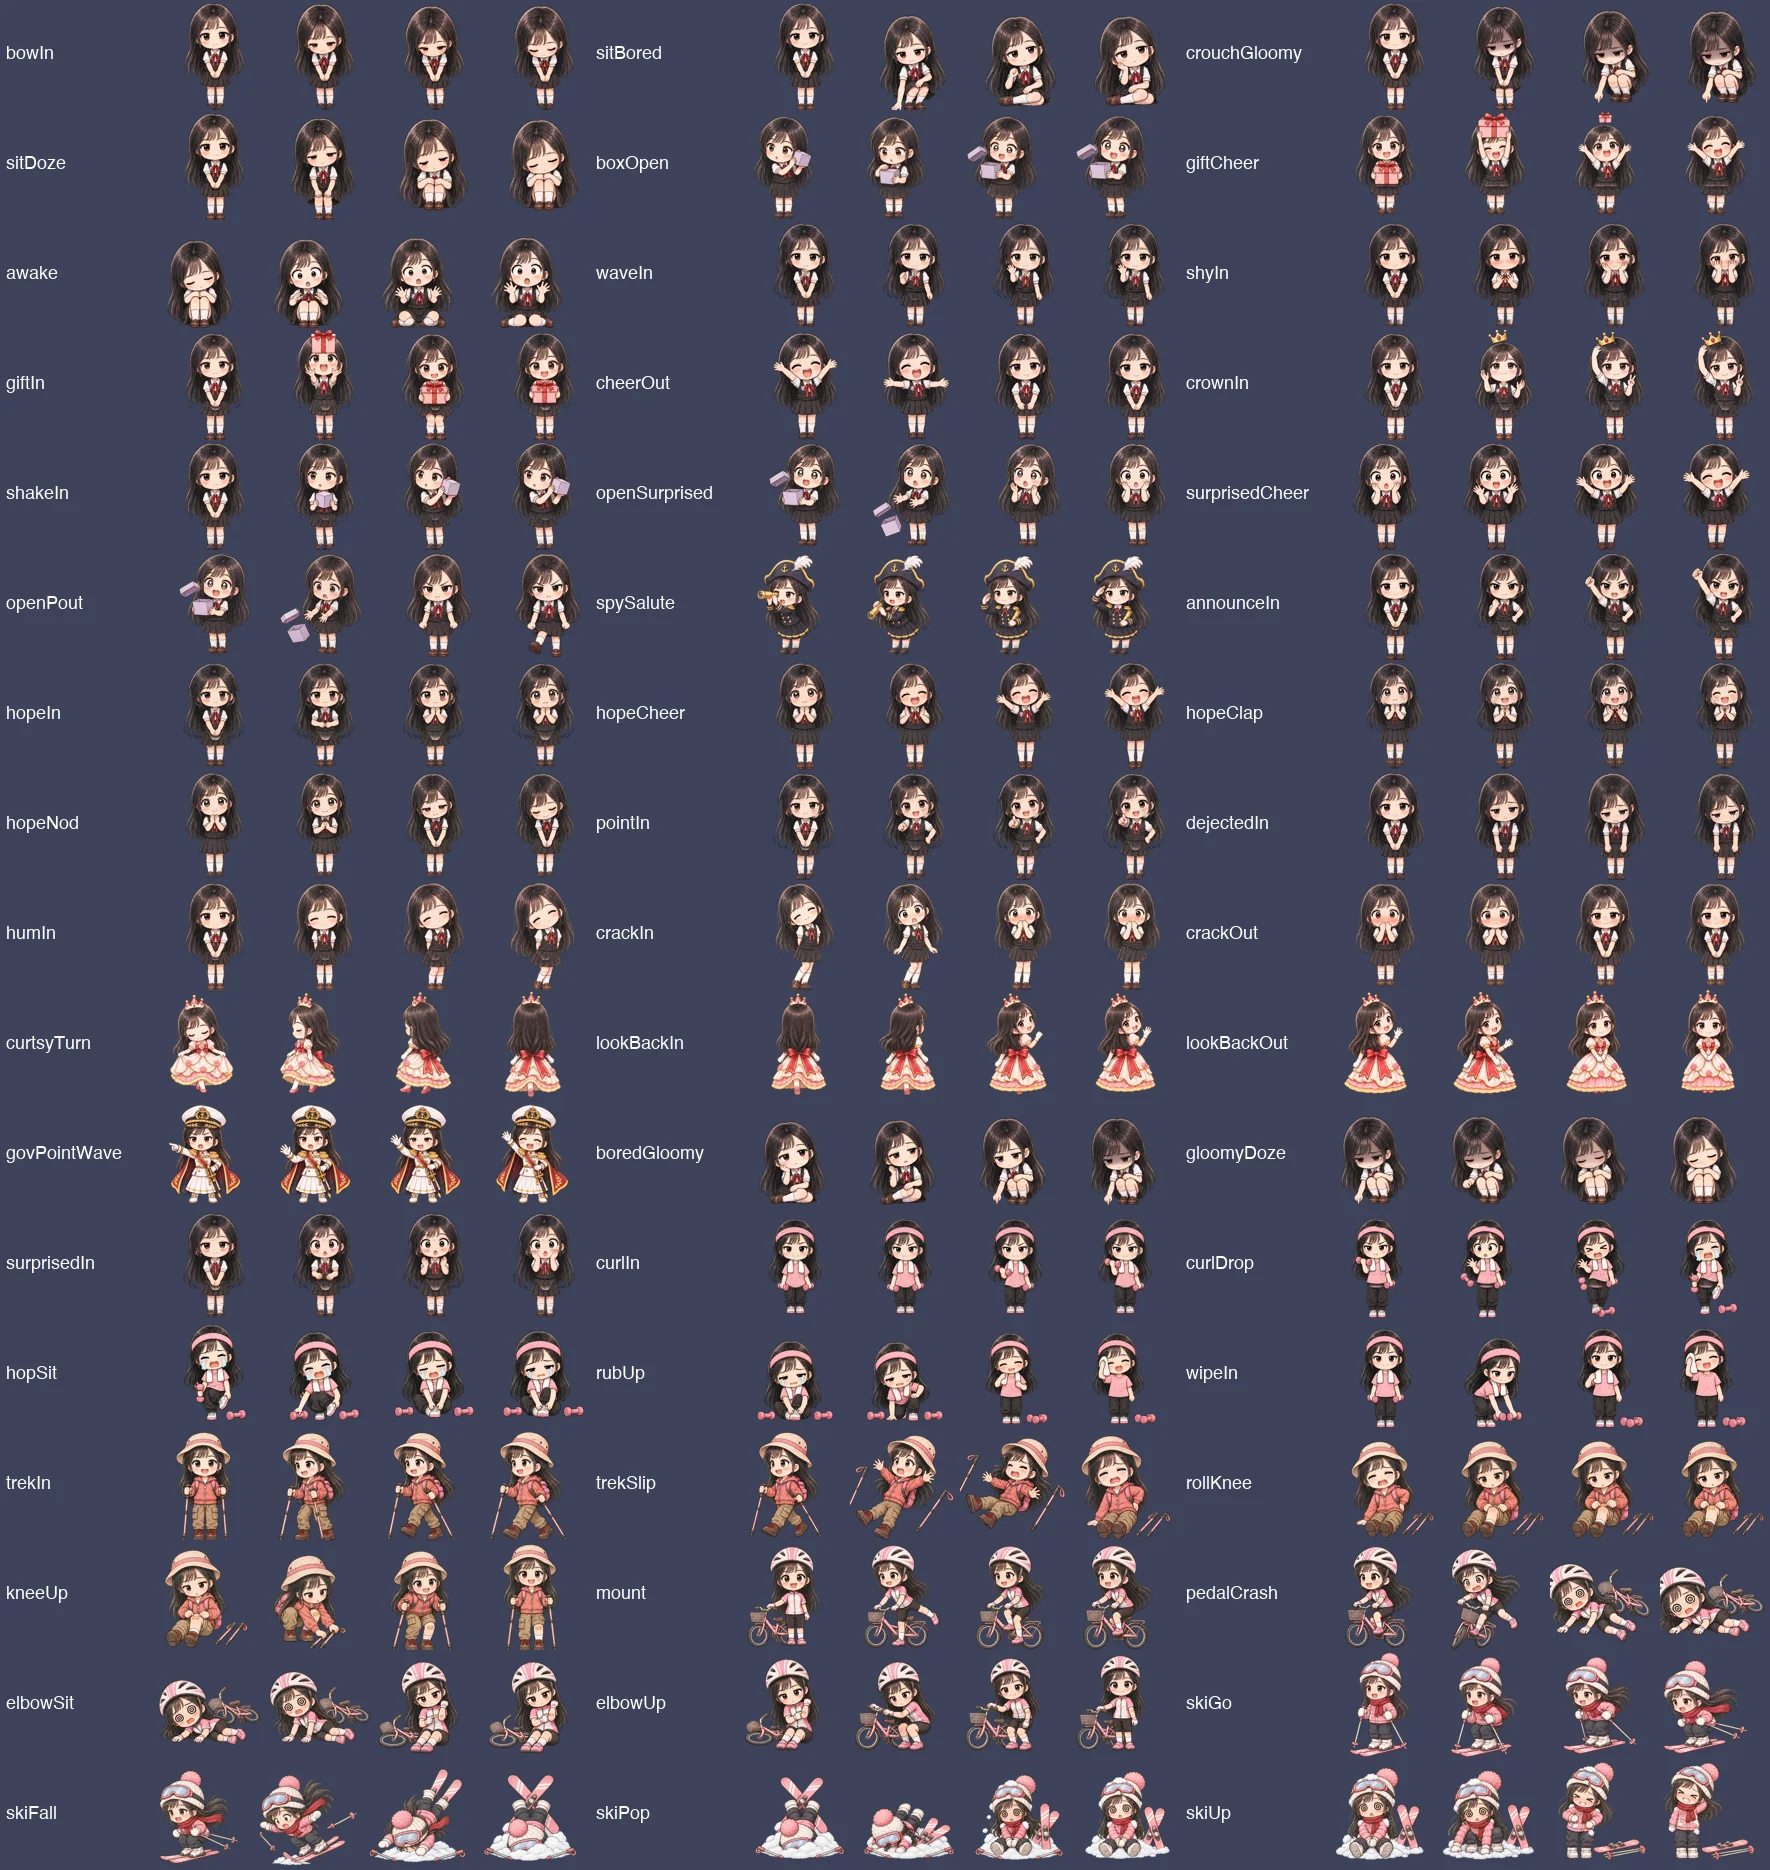
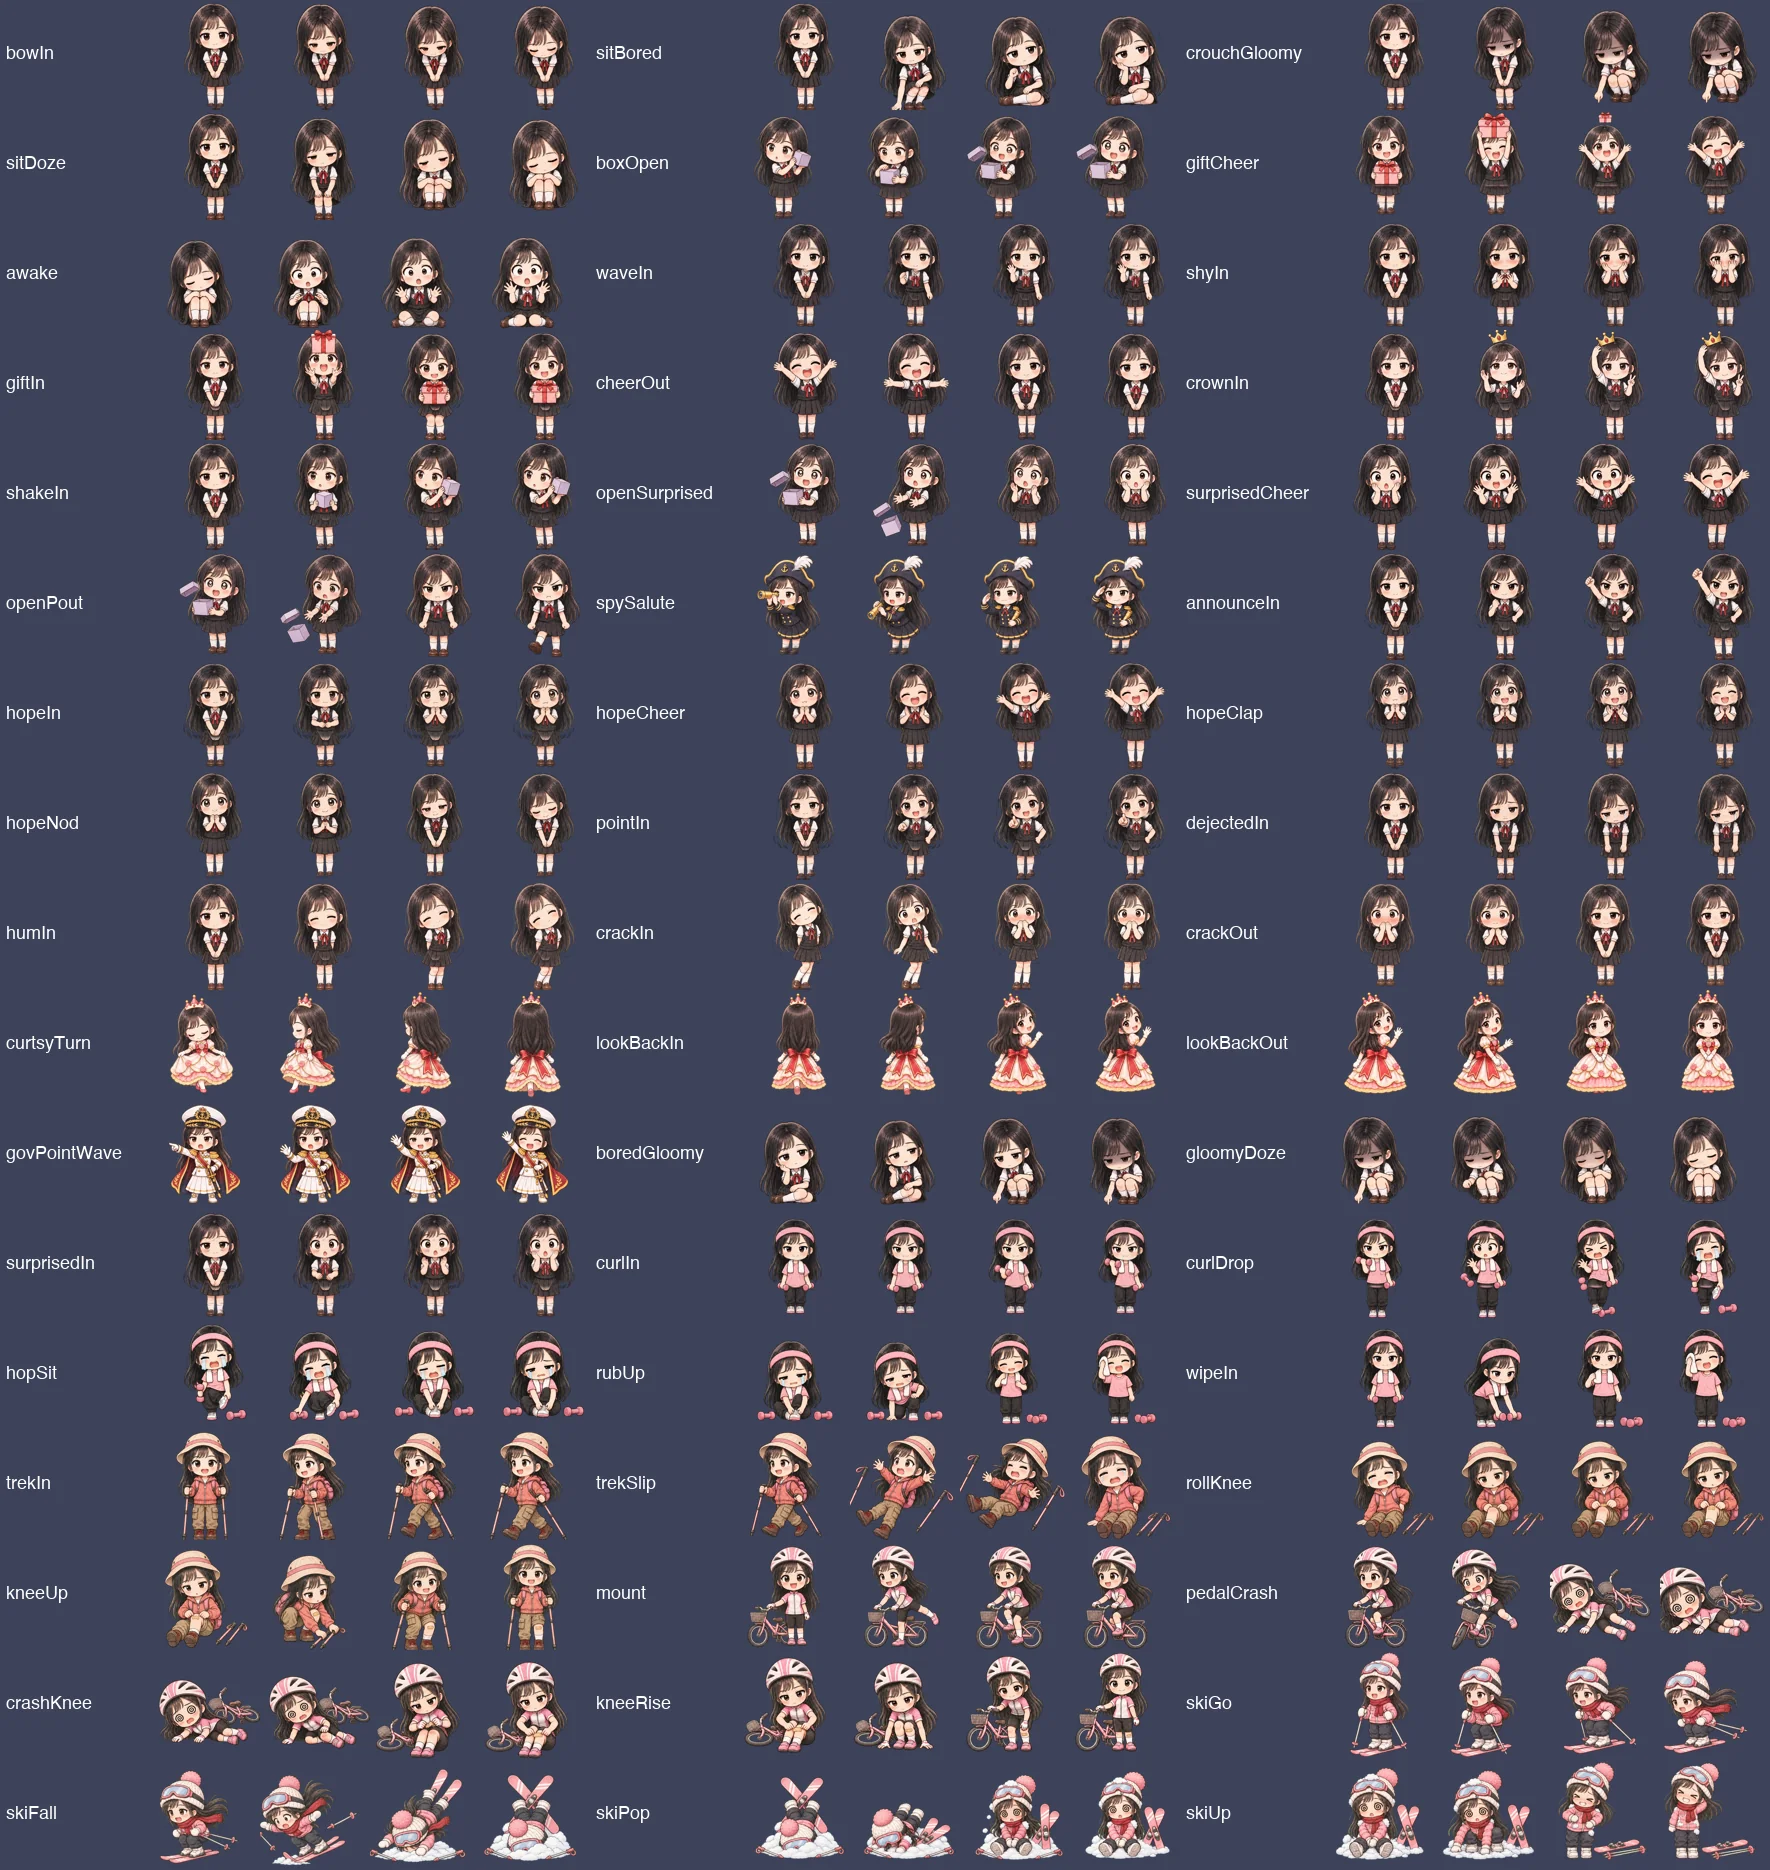
docs: the desktop pet's bike crash scrapes the knee that hits the ground and the plaster goes on that bare knee, standing up with her arms natural (#343)

Changed region(s): [[0.1243, 0.8684, 0.3729, 0.9615], [0.435, 0.8684, 0.5904, 0.9615], [0.6215, 0.8684, 0.6525, 0.9305]]

diff --git a/docs/design/desktop-pet/README.md b/docs/design/desktop-pet/README.md
@@ -170,8 +170,8 @@
   | 举哑铃 | 弯举时一只哑铃滑下来砸到脚：单脚跳、抱着脚、泪目，另一只还在手里 | 坐下揉脚 → 站起来拿毛巾擦汗 → 换回衣服 | 日常·砸到脚 |
   | 哼歌 | 唱破音：捂着嘴、脸通红 | 回到待机 | 日常·破音 |
   | 爬山 | 脚下一滑，摔了个屁股墩，擦伤膝盖 | 卷起一条裤腿贴膝盖 → 裤腿卷着站起来 → 换回衣服 | 日常·摔屁股墩、日常·贴创可贴 |
-  | 骑车 | 车把一歪连人带车摔倒，擦伤手肘 | 坐起来往手肘上贴 → 扶车站起来 → 换回衣服 | 日常·骑车摔倒、日常·贴创可贴 |
-  | 创可贴 | 只贴在露出来的皮肤上，不贴在衣服、裤子、鞋上：登山穿长裤，先把一条裤腿卷到膝盖上面再贴膝盖；骑行服是短袖，贴在擦伤的手肘上（用户指出） | | |
+  | 骑车 | 车把一歪连人带车摔倒，画面右边那只膝盖磕地擦伤 | 坐起来往那只膝盖上贴 → 扶车站起来 → 换回衣服 | 日常·骑车摔倒、日常·贴创可贴 |
+  | 创可贴 | 只贴在露出来的皮肤上，不贴在衣服、裤子、鞋上：登山穿长裤，先把一条裤腿卷到膝盖上面再贴膝盖；骑行裤露膝盖，摔倒时磕地的是画面右边那只膝盖，就贴那只（第一次贴在了手肘上，站起来时还把手臂背过去亮出创可贴，用户指出）。磕到哪就贴哪，冲击星也打在那里；站起来手脚自然，不为了亮出创可贴扭手臂 | | |
   | 滑雪 | 板一绊，一头扎进雪堆，两腿朝天、滑雪板交叉成 X | 钻出来、晕乎乎 → 甩头抖雪 → 换回衣服（扎进软雪不算擦伤，不贴创可贴） | 日常·滑雪摔跤 |
   | 打瞌睡（犯困时，每半分钟一次） | 头一点磕到膝盖 | 惊醒，精灵也吓一跳，接着睡 | 冷场后来了人 |
 - 冷场后来了事件：心情是沮丧或犯困时，先演"惊醒"，说"冷场后来了人"的台词，再接这件事的演出。
@@ -271,7 +271,7 @@
 | 城堡 | "!"、转圈变身时一圈星星、屈膝礼时光晕和花瓣，跑回来落地时扬尘和光圈，城堡升起时轻震 |
 | 抽奖 | 宣布时聚光灯、"!"、彩带；截止时惊吓线和汗；转动时绕她转的星星；点名时聚光灯、"!"、手指方向一团星星；揭晓前一直冒汗；大奖时集中线、光芒、光晕、震一下，二奖光晕和彩带，三奖一团星星和爱心；没人报名时阴影竖线、小乌云下雨、一片枯叶飘过 |
 | 日常 | 举哑铃每举一下一滴汗；爬山每一步扬尘、冒汗；骑车速度线、车轮扬尘；滑雪满页飘雪、板后扬雪、速度线 |
-| 出事 | 砸到脚：脚边冲击星、眼泪、轻震；破音：裂开的音符、惊吓线、汗；摔倒：冲击星、扬尘、晕星、震一下；贴好创可贴时膝盖（登山）或手肘（骑行）上一闪；扎进雪堆：雪团炸开、冲击星、震一下，钻出来晕星，抖雪时雪粒往两边飞 |
+| 出事 | 砸到脚：脚边冲击星、眼泪、轻震；破音：裂开的音符、惊吓线、汗；摔倒：冲击星、扬尘、晕星、震一下；贴好创可贴时膝盖上一闪；骑车摔倒的冲击星打在磕地的那只膝盖上；扎进雪堆：雪团炸开、冲击星、震一下，钻出来晕星，抖雪时雪粒往两边飞 |
 | 心情 | 无聊时隔一阵冒"…"、叹一口气；沮丧时头顶阴影竖线；惊醒时"!"、惊吓线、汗 |
 
 性能：同时在画的粒子控制在百颗以内，光效用渐变一次画好，不用每颗粒子的模糊阴影。各段特效的截图在 `preview/board-effects.webp`。
@@ -296,7 +296,7 @@
 | 8 大航海 | 待机（平时衣服，当尺子）、舰长敬礼、提督举望远镜、提督敬礼、总督指向前方、总督挥手（已出，`textures/pose-8-voyage.webp`） |
 | 10 健身 | 待机（平时衣服）、两手各握一只哑铃站好、左右交替弯举、哑铃砸脚单脚跳、坐下揉脚、拿毛巾擦汗（`textures/pose-10-gym.webp`，对比在 `preview/pose-10-sheets.webp`，选 a：b 的眉毛浓） |
 | 11 登山 | 待机、拄双杖站好、走路迈步、摔屁股墩、卷起一条裤腿往露出的膝盖上贴创可贴、裤腿卷着站起来（`textures/pose-11-hike.webp`，对比在 `preview/pose-11-sheets.webp`，选 b：卷起的裤腿和膝盖更清楚） |
-| 12 骑行 | 待机、扶车站好、骑车、连人带车摔倒、坐着往露出的手臂上贴创可贴、扶车站起来（`textures/pose-12-cycle.webp`，对比在 `preview/pose-12-sheets.webp`，选 b：a 的摔倒和贴创可贴两格碰到格子边） |
+| 12 骑行 | 待机、扶车站好、骑车、连人带车摔倒、坐着往画面右边露出的膝盖上贴创可贴、扶车站起来、创可贴留在膝盖上（`textures/pose-12-cycle.webp`，对比在 `preview/pose-12-sheets.webp`，选 b：a 的摔倒和贴创可贴两格碰到格子边；第 5、6 格后来用 `edit-cell.sh` 重画，原来贴在手臂上） |
 | 9 滑雪 | 待机（平时衣服，当尺子）、穿滑雪服踩板拄杖、压低身子滑、一头扎进雪堆、坐在雪堆里钻出来、甩头抖雪（已出，`textures/pose-9-ski.webp`，两版对比在 `preview/pose-9-sheets.webp`，选 a：b 的第一格平时衣服画成了长袖；codex 在透明底边上留了一圈半透明光晕，透明度低于 64 的清掉、其余拉回满范围） |
 
 **精灵的动作**（已出，`textures/sprite-pose-*.webp`，总览在 `preview/sprite-pose-sheets.webp`；平时、眨眼、看向右边、开心另有单张，在 `mascot/textures/`）：
@@ -314,7 +314,7 @@
 |---|---|
 | 她·循环 | walk 城堡背面走路、hum 哼歌摇摆、wave 挥手、clap 鼓掌、nod 点头、cheer 欢呼挥臂、shy 害羞扭动、gloomy 画圈圈、bored 发呆眨眼、doze 打瞌睡呼吸、shakeBox 摇盲盒、govWave 总督挥手、idle 待机眨眼、spin 转圈变身、skiGlide 滑雪左右压板、shakeSnow 甩头抖雪、curl 两手交替弯举、gymHop 砸脚后单脚跳、wipe 拿毛巾擦汗、trek 登山走路、pedal 骑行蹬车 |
 | 她·播一遍 | capRaise 舰长抬手敬礼、admRaise 提督抬手敬礼、spyRaise 举起望远镜、curtsy 屈膝礼、jump 总督跳上船（下蹲、腾空、落地） |
-| 她·过渡（只用中间两帧，倒着播就是反方向） | bowIn 站→鞠躬、sitBored 站→坐下发呆、crouchGloomy 站→蹲下画圈圈、sitDoze 站→抱膝打瞌睡、boxOpen 摇盲盒→打开、giftCheer 捧礼物→欢呼、awake 打瞌睡→惊醒、waveIn 站→挥手、shyIn 站→捂脸、giftIn 礼物盒掉进手里、cheerOut 欢呼→站、crownIn 王冠落到头上、shakeIn 拿起盲盒、openSurprised 打开→惊讶、surprisedCheer 惊讶→欢呼、openPout 打开→鼓腮、spySalute 收起望远镜敬礼、announceIn 举拳宣布、hopeIn 合手期待、hopeCheer 期待→欢呼、hopeClap 期待→鼓掌、hopeNod 期待→点头、pointIn 点名、dejectedIn 失落、humIn 开始哼歌、crackIn 破音、crackOut 破音→站、curtsyTurn 屈膝礼→转身、lookBackIn 停步回头、lookBackOut 回头→转过身、govPointWave 指向→挥手、boredGloomy 发呆→画圈圈、gloomyDoze 画圈圈→打瞌睡、surprisedIn 站→惊讶、skiGo 撑杖出发、skiFall 绊倒扎进雪堆、skiPop 从雪里钻出来、skiUp 站起来、curlIn 开始弯举、curlDrop 哑铃滑下砸脚、hopSit 坐下揉脚、rubUp 站起来擦汗、wipeIn 放下哑铃擦汗、trekIn 拄杖出发、trekSlip 滑倒摔屁股墩、rollKnee 卷裤腿贴膝盖、kneeUp 站起来、mount 跨上车、pedalCrash 连人带车摔倒、elbowSit 坐起贴手肘、elbowUp 扶车站起来 |
+| 她·过渡（只用中间两帧，倒着播就是反方向） | bowIn 站→鞠躬、sitBored 站→坐下发呆、crouchGloomy 站→蹲下画圈圈、sitDoze 站→抱膝打瞌睡、boxOpen 摇盲盒→打开、giftCheer 捧礼物→欢呼、awake 打瞌睡→惊醒、waveIn 站→挥手、shyIn 站→捂脸、giftIn 礼物盒掉进手里、cheerOut 欢呼→站、crownIn 王冠落到头上、shakeIn 拿起盲盒、openSurprised 打开→惊讶、surprisedCheer 惊讶→欢呼、openPout 打开→鼓腮、spySalute 收起望远镜敬礼、announceIn 举拳宣布、hopeIn 合手期待、hopeCheer 期待→欢呼、hopeClap 期待→鼓掌、hopeNod 期待→点头、pointIn 点名、dejectedIn 失落、humIn 开始哼歌、crackIn 破音、crackOut 破音→站、curtsyTurn 屈膝礼→转身、lookBackIn 停步回头、lookBackOut 回头→转过身、govPointWave 指向→挥手、boredGloomy 发呆→画圈圈、gloomyDoze 画圈圈→打瞌睡、surprisedIn 站→惊讶、skiGo 撑杖出发、skiFall 绊倒扎进雪堆、skiPop 从雪里钻出来、skiUp 站起来、curlIn 开始弯举、curlDrop 哑铃滑下砸脚、hopSit 坐下揉脚、rubUp 站起来擦汗、wipeIn 放下哑铃擦汗、trekIn 拄杖出发、trekSlip 滑倒摔屁股墩、rollKnee 卷裤腿贴膝盖、kneeUp 站起来、mount 跨上车、pedalCrash 连人带车摔倒、crashKnee 坐起贴膝盖、kneeRise 扶车站起来 |
 | 精灵·循环 | spIdle 飘浮摆尾、spHappy 开心蹦、spFlag 挥旗、spNod 点头、spSurprised 吓一跳、spYawn 打哈欠、spSleep 睡觉呼吸、spPat 摸头、spGlow 发光、spHide 抱头发抖、spFly1–3 四分之三、侧面、背面飞行摆尾 |
 
 **道具和设定图：**
